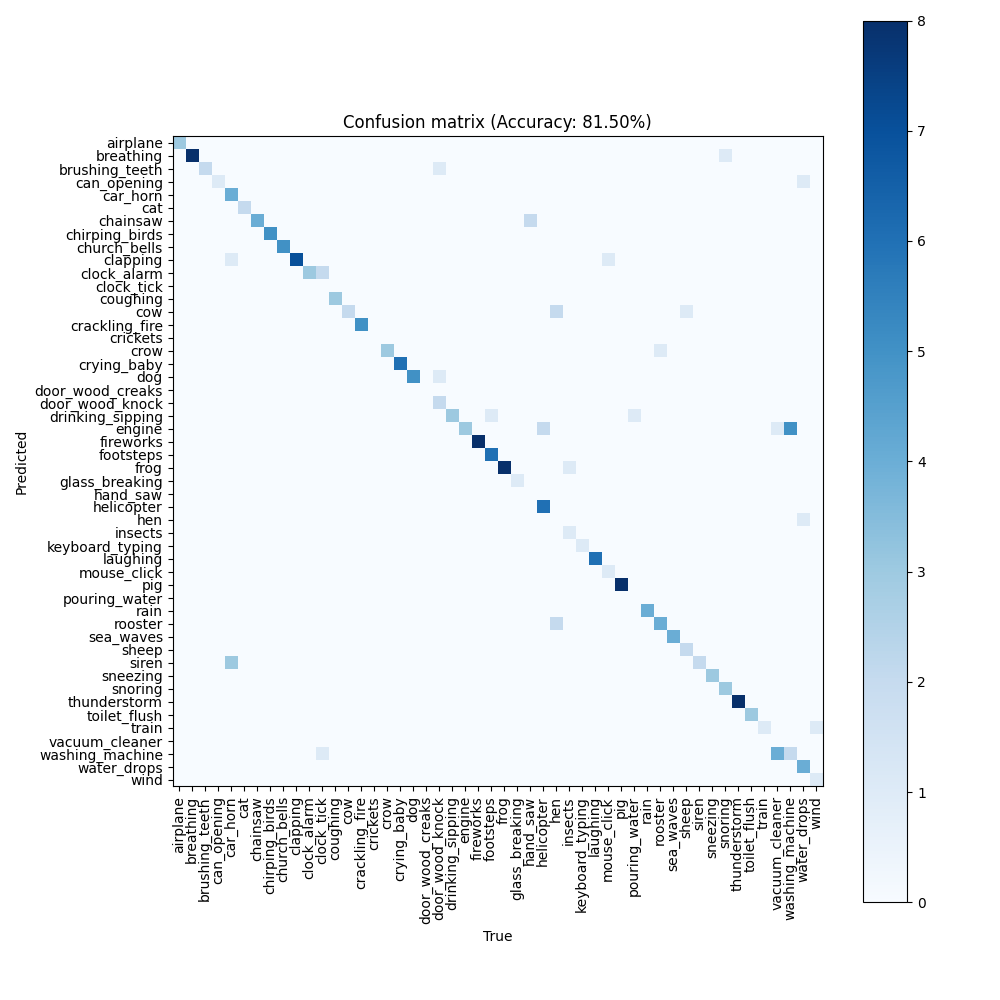
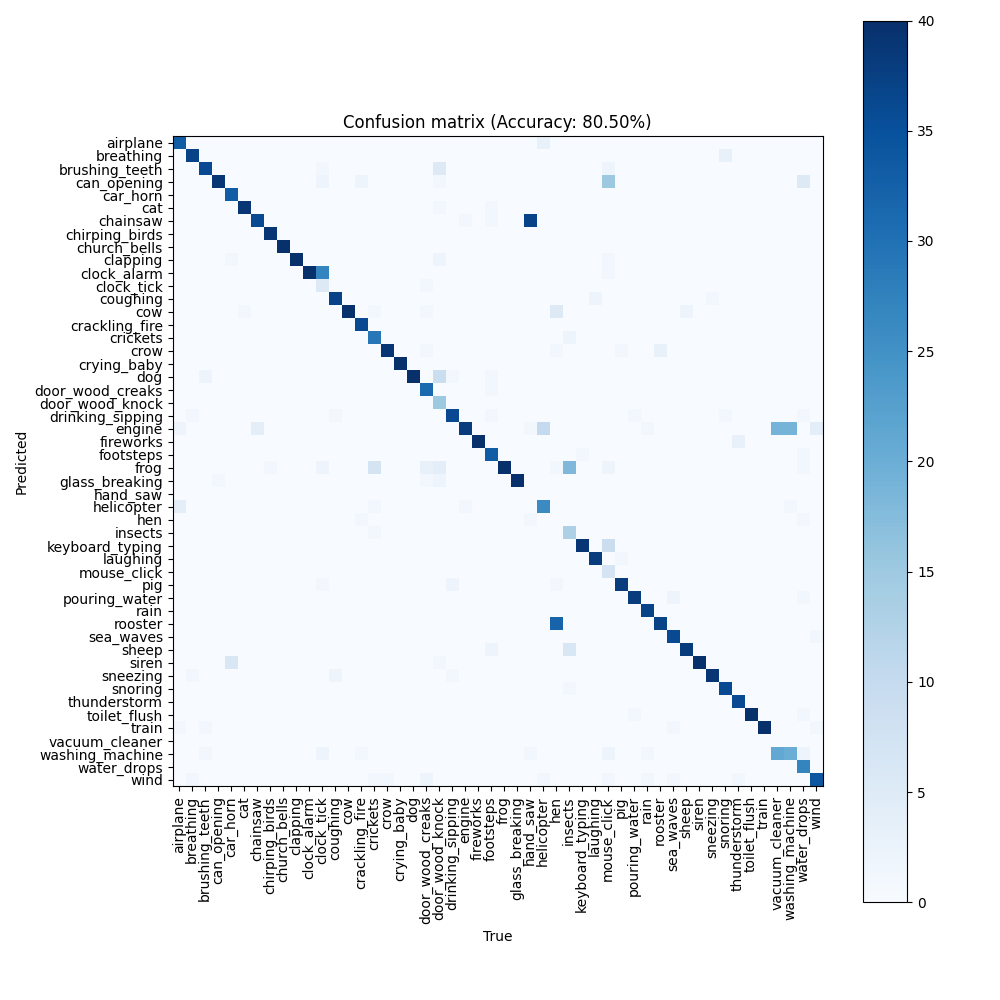
update figs

diff --git a/main.py b/main.py
@@ -29,7 +29,7 @@ processor = ClapProcessor.from_pretrained("laion/clap-htsat-unfused")
 print(f"Model loaded in {time.time() - start:.2f} seconds")
 
 preds = []
-limit = 200
+limit = len(esc_50.audios) # no limit
 texts = esc_50.classes
 inputs_text = processor(text=texts, return_tensors="pt", padding=True)
 
@@ -90,7 +90,7 @@ for i in range(len(preds)):
     col = np.where(all_classes == esc_50.annotations[i])[0][0]
     confusion_matrix[row, col] += 1
     
-plt.figure(figsize=(10, 10))
+plt.figure(figsize=(12, 12))
 plt.imshow(confusion_matrix, cmap="Blues", interpolation="nearest")
 plt.xticks(np.arange(len(all_classes)), all_classes, rotation=90)
 plt.yticks(np.arange(len(all_classes)), all_classes)
@@ -107,7 +107,7 @@ end = time.time()
 import datetime
 
 elapsed = str(datetime.timedelta(seconds=(end - start))) # convert time to hh:mm:ss.nnnnnn format
-elapsed.split(".")[0] # remove microseconds
+elapsed = elapsed.split(".")[0] # remove microseconds
 if elapsed.startswith("0:"):
     elapsed = elapsed[2:] # remove leading 0:
 

diff --git a/README.md b/README.md
@@ -3,6 +3,8 @@ Experiments on the CLAP model for the DL course at IMTA (2023-2024)
 
 ## A few experiments results
 
+Running the ```main.py``` script over the whole ESC-50 dataset on a GTX1060, consumes : ```1321MiB /  6144MiB``` of GPU RAM and takes 23 minutes to complete.
+
 ### Last audio processed
 Image of the last audio processed by the model.
 
